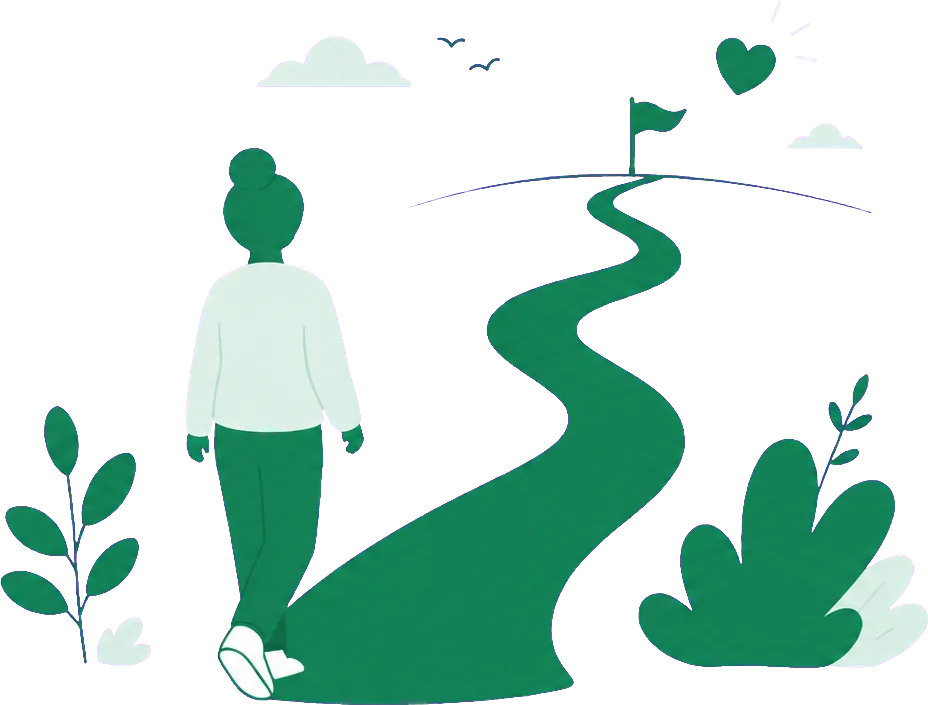
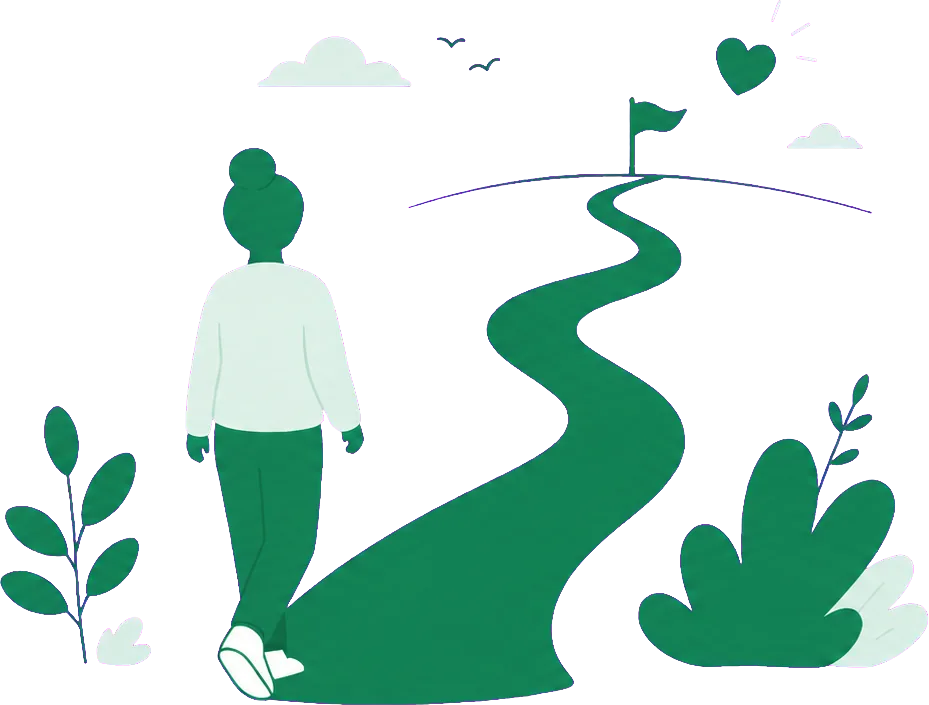
feat(hubbar): hero-illustrationer i Söka jobb, Karriär, Resurser, Min vardag
Fyra hub-heroes inkopplade via PageHero (nytt heroIllustration-prop) +
HubPage (domän -> bild). Dekorativa (aria-hidden), nere till höger, dolda på
mobil. Källor genererade på solid magenta; chroma-keyen bytt till min(R,B)-G
så äkta magenta tas bort men korall-rosa/lavendel/sky bevaras. ~34-46KB/bild.

diff --git a/client/src/components/layout/PageHero.tsx b/client/src/components/layout/PageHero.tsx
@@ -62,6 +62,12 @@ interface PageHeroProps {
    */
   rightDecoration?: React.ReactNode
 
+  /**
+   * URL till dekorativ hub-illustration (webp). Visas nere till höger i
+   * hub-hero:n, dold på mobil. Bara meningsfull i mode="hub".
+   */
+  heroIllustration?: string
+
   /** Fält för CTA-knappar i tool-läge (höger om title) */
   actions?: React.ReactNode
 
@@ -88,6 +94,7 @@ export function PageHero({
   greeting,
   icon: Icon,
   rightDecoration,
+  heroIllustration,
   actions,
   stats,
   tabs,
@@ -102,6 +109,7 @@ export function PageHero({
       greeting={greeting}
       icon={Icon}
       rightDecoration={rightDecoration}
+      heroIllustration={heroIllustration}
       showRadialGlow={showRadialGlow ?? true}
       className={className}
     />
@@ -128,6 +136,7 @@ interface HeroHubProps {
   greeting?: string | null
   icon?: LucideIcon
   rightDecoration?: React.ReactNode
+  heroIllustration?: string
   showRadialGlow: boolean
   className?: string
 }
@@ -138,6 +147,7 @@ function PageHeroHub({
   greeting,
   icon: Icon,
   rightDecoration,
+  heroIllustration,
   showRadialGlow,
   className,
 }: HeroHubProps) {
@@ -162,6 +172,16 @@ function PageHeroHub({
             background: 'radial-gradient(circle, var(--c-accent) 0%, transparent 70%)',
             opacity: 0.4,
           }}
+        />
+      )}
+
+      {/* Dekorativ hub-illustration — nere till höger, döljs på mobil/surfplatta */}
+      {heroIllustration && (
+        <img
+          src={heroIllustration}
+          alt=""
+          aria-hidden="true"
+          className="hidden lg:block absolute bottom-0 right-4 h-[120px] xl:h-[128px] pointer-events-none select-none"
         />
       )}
 

diff --git a/client/src/pages/hubs/HubPage.tsx b/client/src/pages/hubs/HubPage.tsx
@@ -75,6 +75,14 @@ const heroVariants = {
   visible: { opacity: 1, y: 0 },
 }
 
+// Dekorativ hub-illustration per domän (DESIGN.md §3 — hub-landning).
+const HUB_ILLUSTRATIONS: Partial<Record<HubDomain, string>> = {
+  activity: '/illustrations/hero-jobb.webp',
+  coaching: '/illustrations/hero-karriar.webp',
+  info: '/illustrations/hero-resurser.webp',
+  wellbeing: '/illustrations/hero-vardag.webp',
+}
+
 export default function HubPage({
   titleKey: _titleKey,
   title,
@@ -113,6 +121,7 @@ export default function HubPage({
           description={hubDescription}
           greeting={trimmedFirstName ? `Hej ${trimmedFirstName}` : undefined}
           icon={HubIcon}
+          heroIllustration={HUB_ILLUSTRATIONS[domain]}
           rightDecoration={
             <div
               aria-hidden="true"